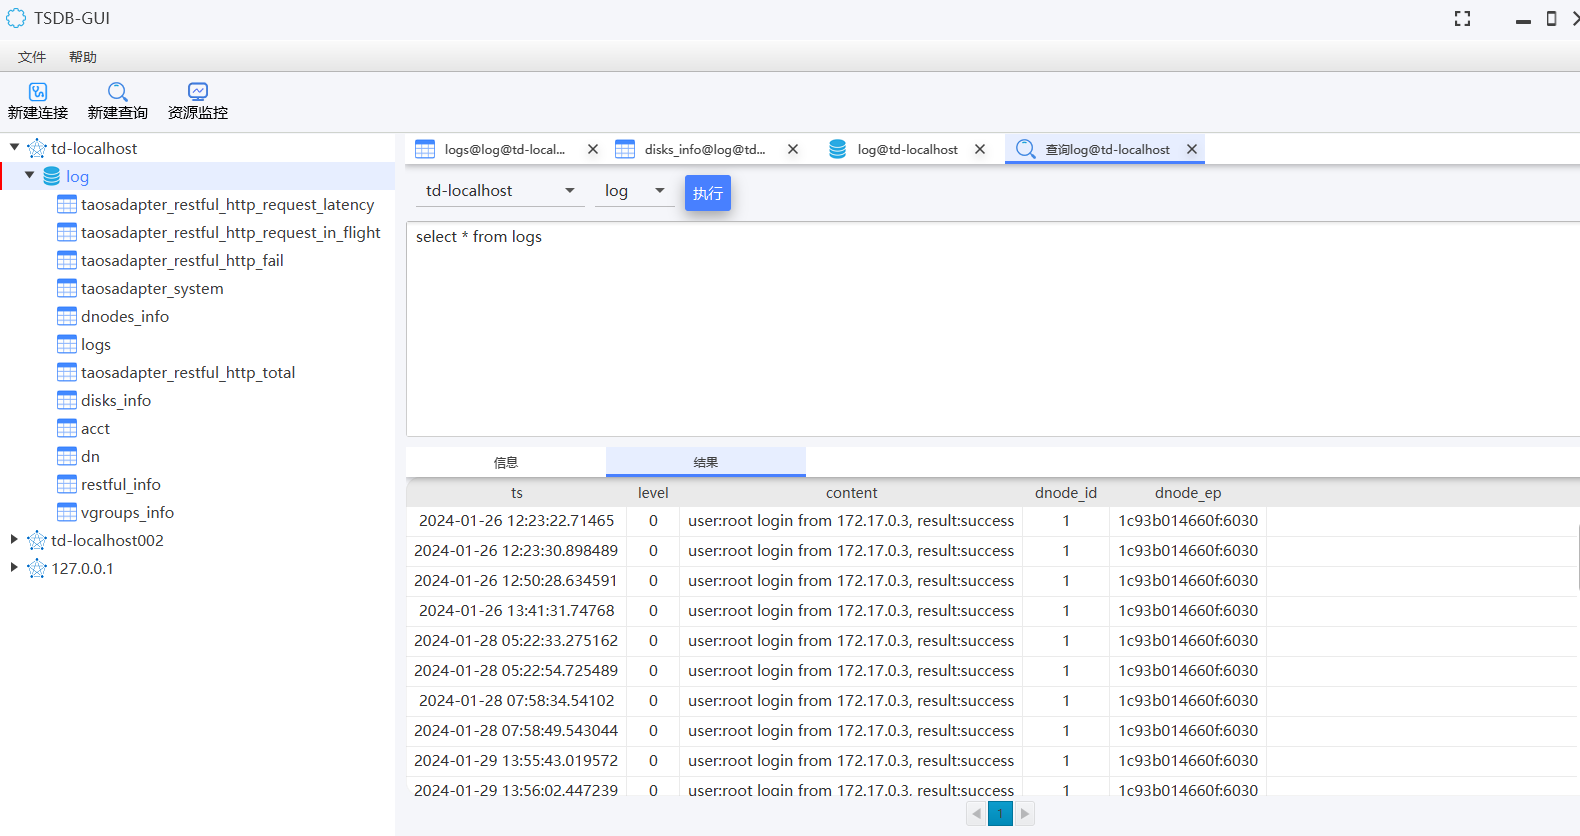
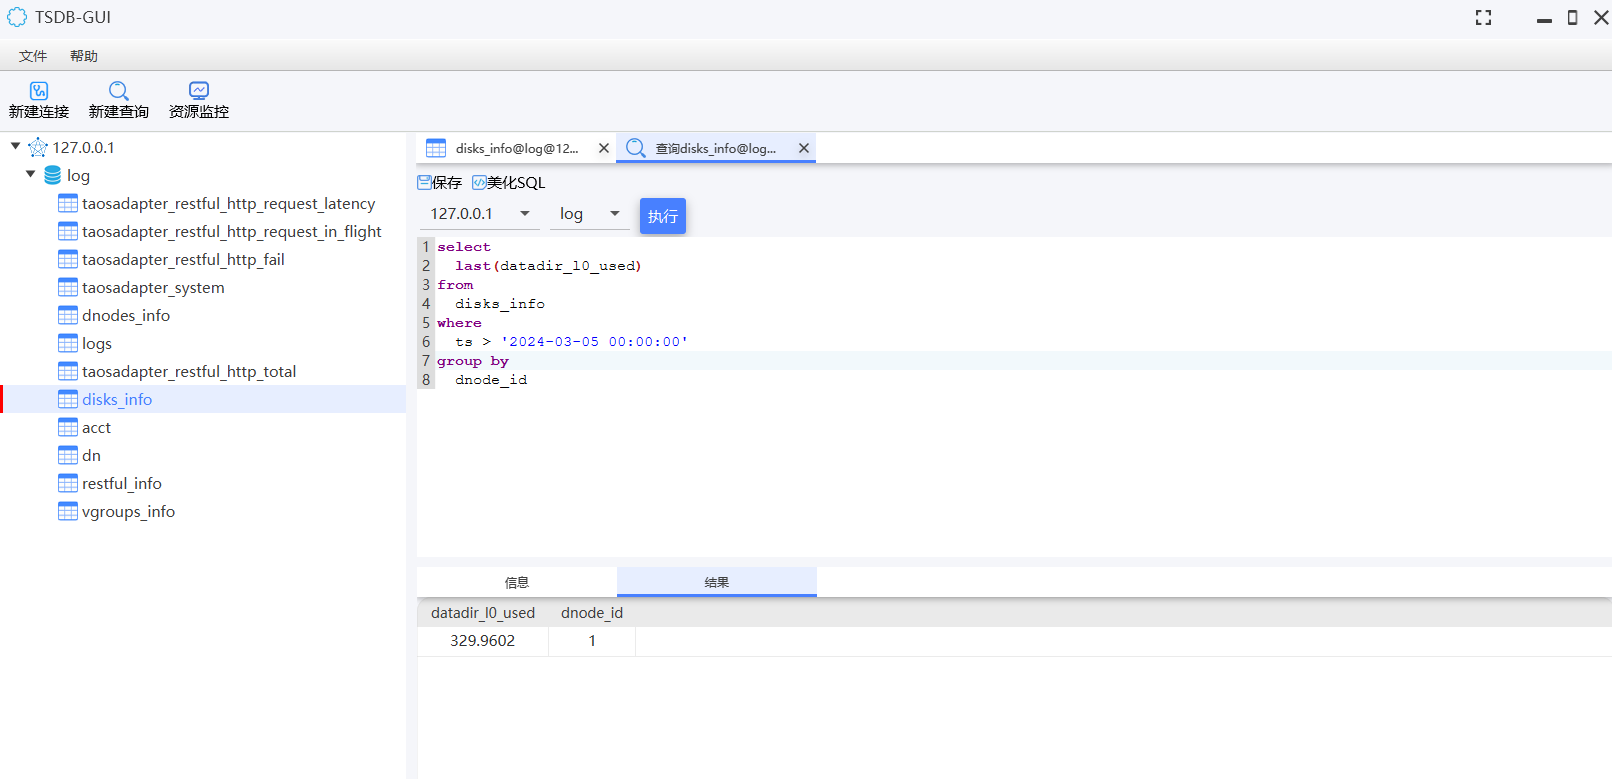
更新ReadMe，自定义查询描述

diff --git a/README.md b/README.md
@@ -40,7 +40,7 @@
 7. 编辑数据 (输入字段信息)
 ![输入图片说明](tdengine/src/main/resources/images/readme/updateDataSelectItem.png)
 ![输入图片说明](tdengine/src/main/resources/images/readme/updateData.png)
-8. 自定义SQL执行(可执行任意SQL，对于查询SQL，可展示查询结果)
+8. 自定义SQL执行(可执行任意SQL，对于查询SQL，可展示查询结果，支持保存SQL、美化SQL)
 ![输入图片说明](tdengine/src/main/resources/images/readme/executeSQL.png)
 9. 资源监控查看(可查看数据库CPU、内存、磁盘使用趋势)
 ![输入图片说明](tdengine/src/main/resources/images/resourceMonitor.png)
